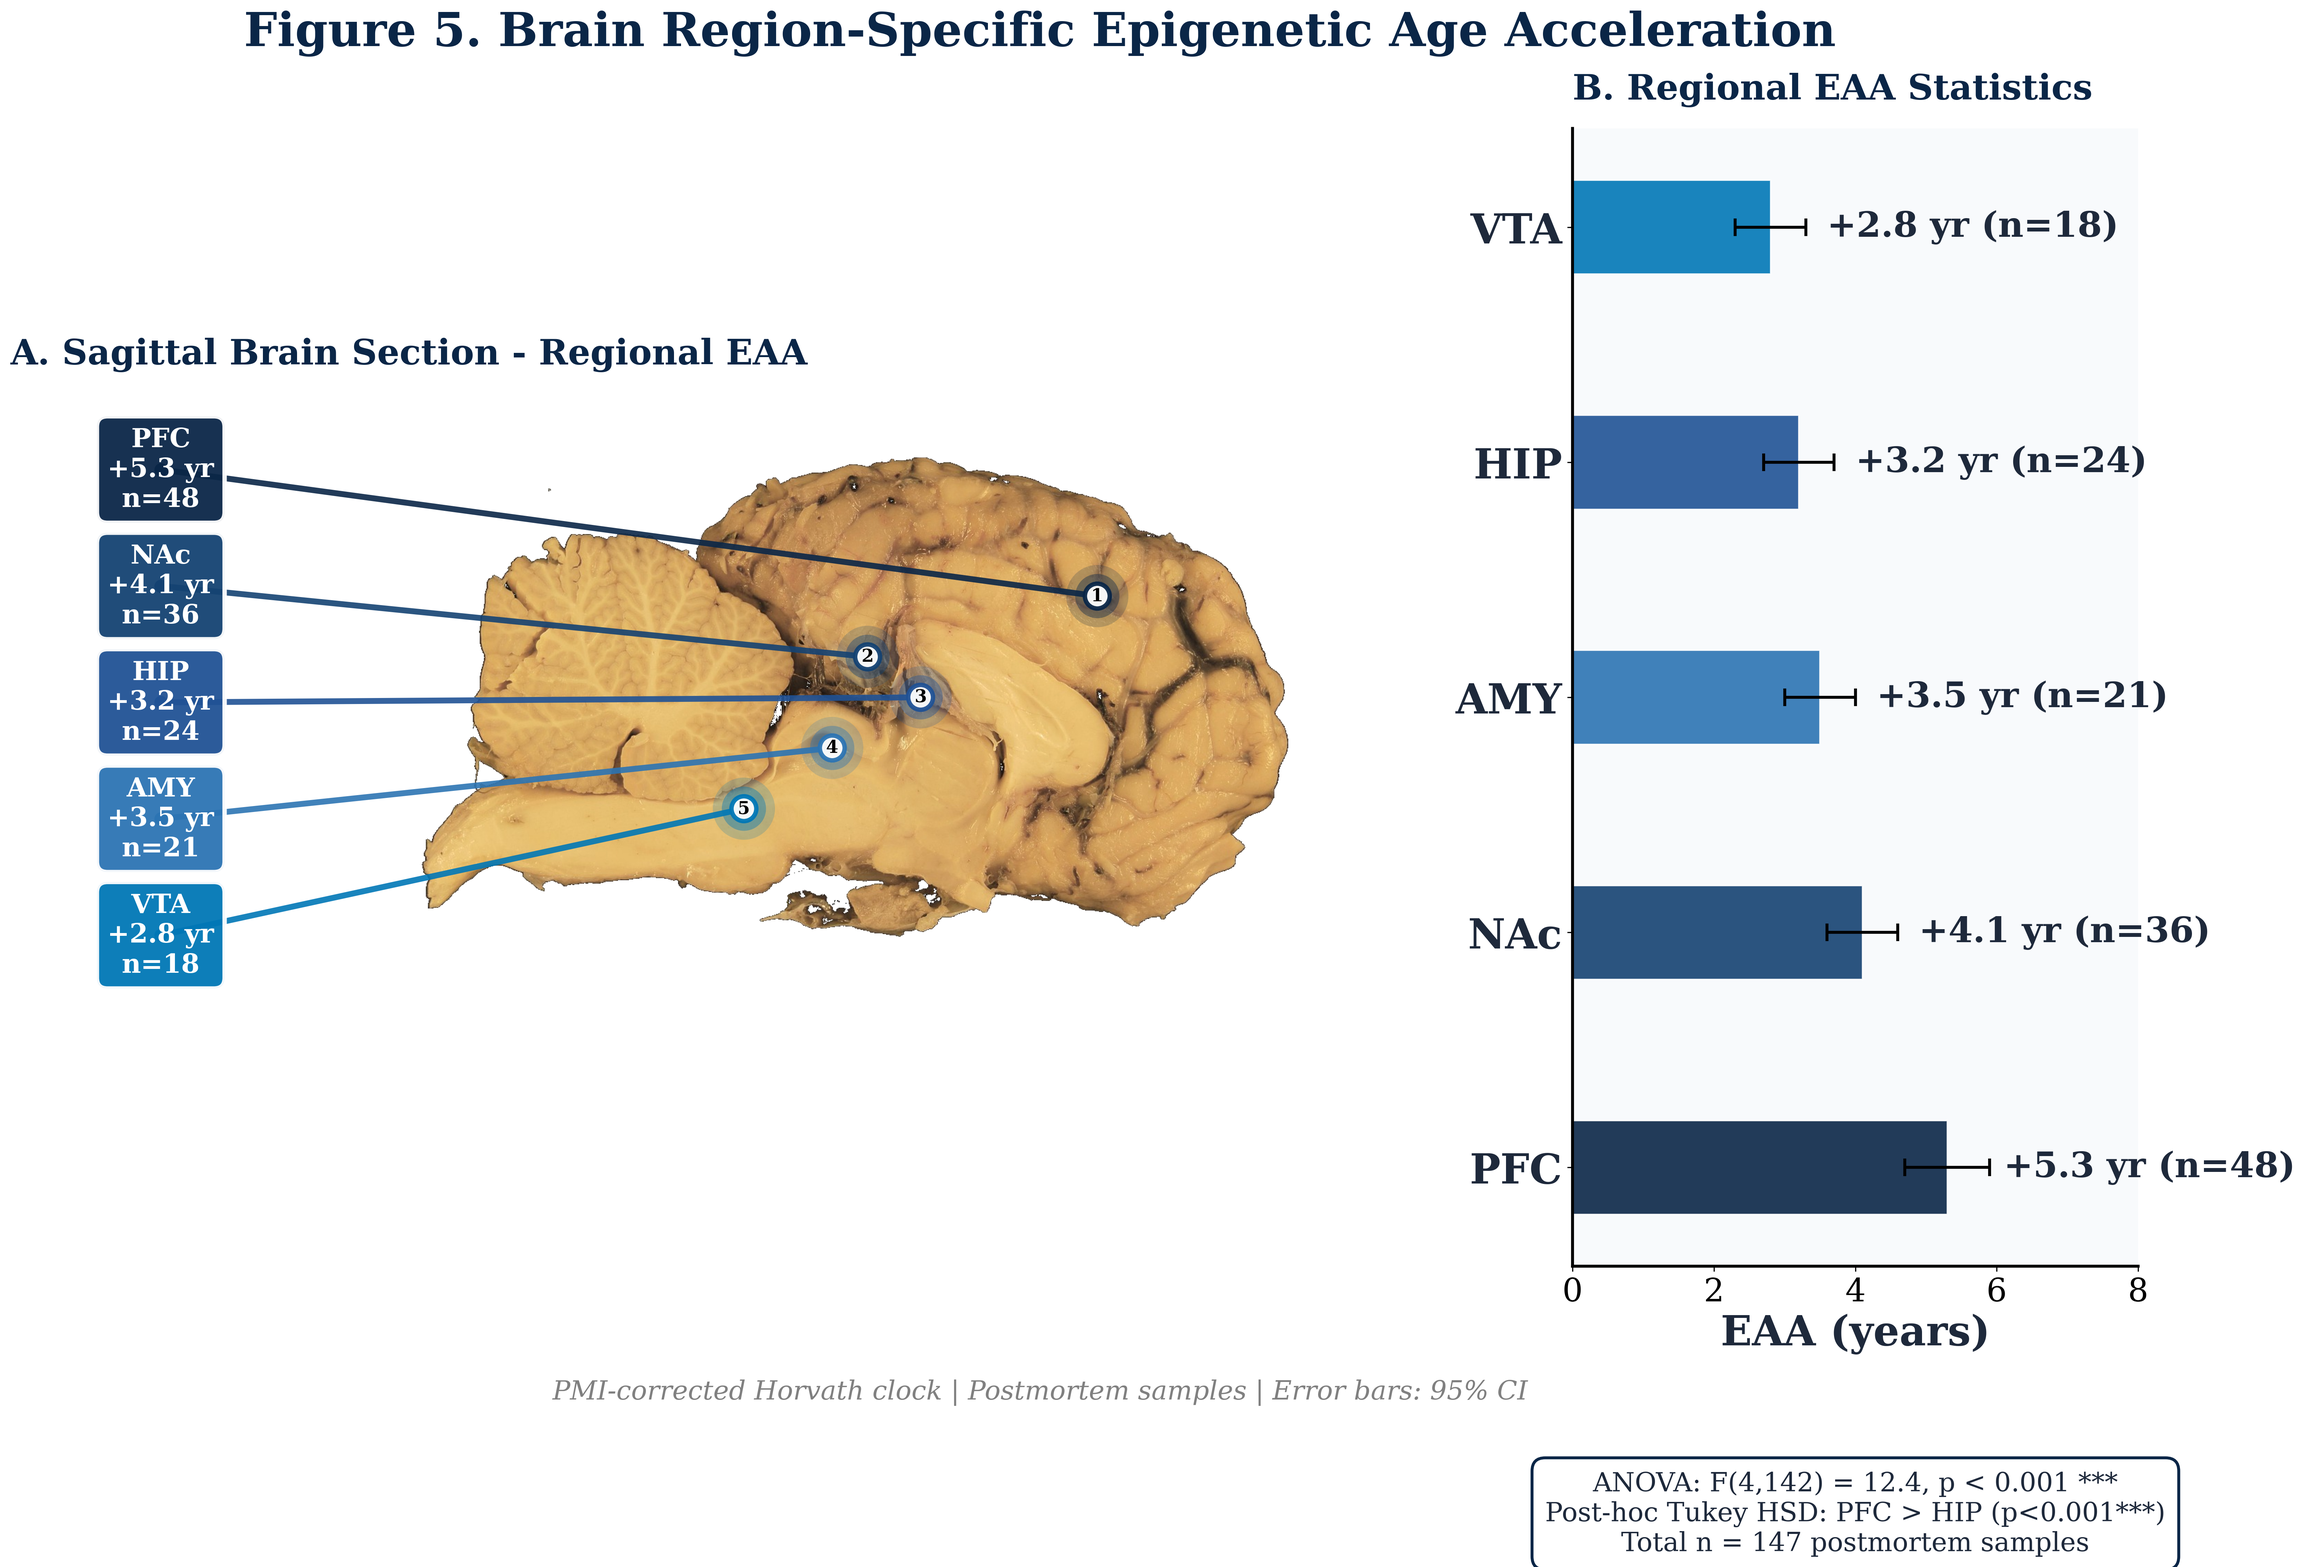
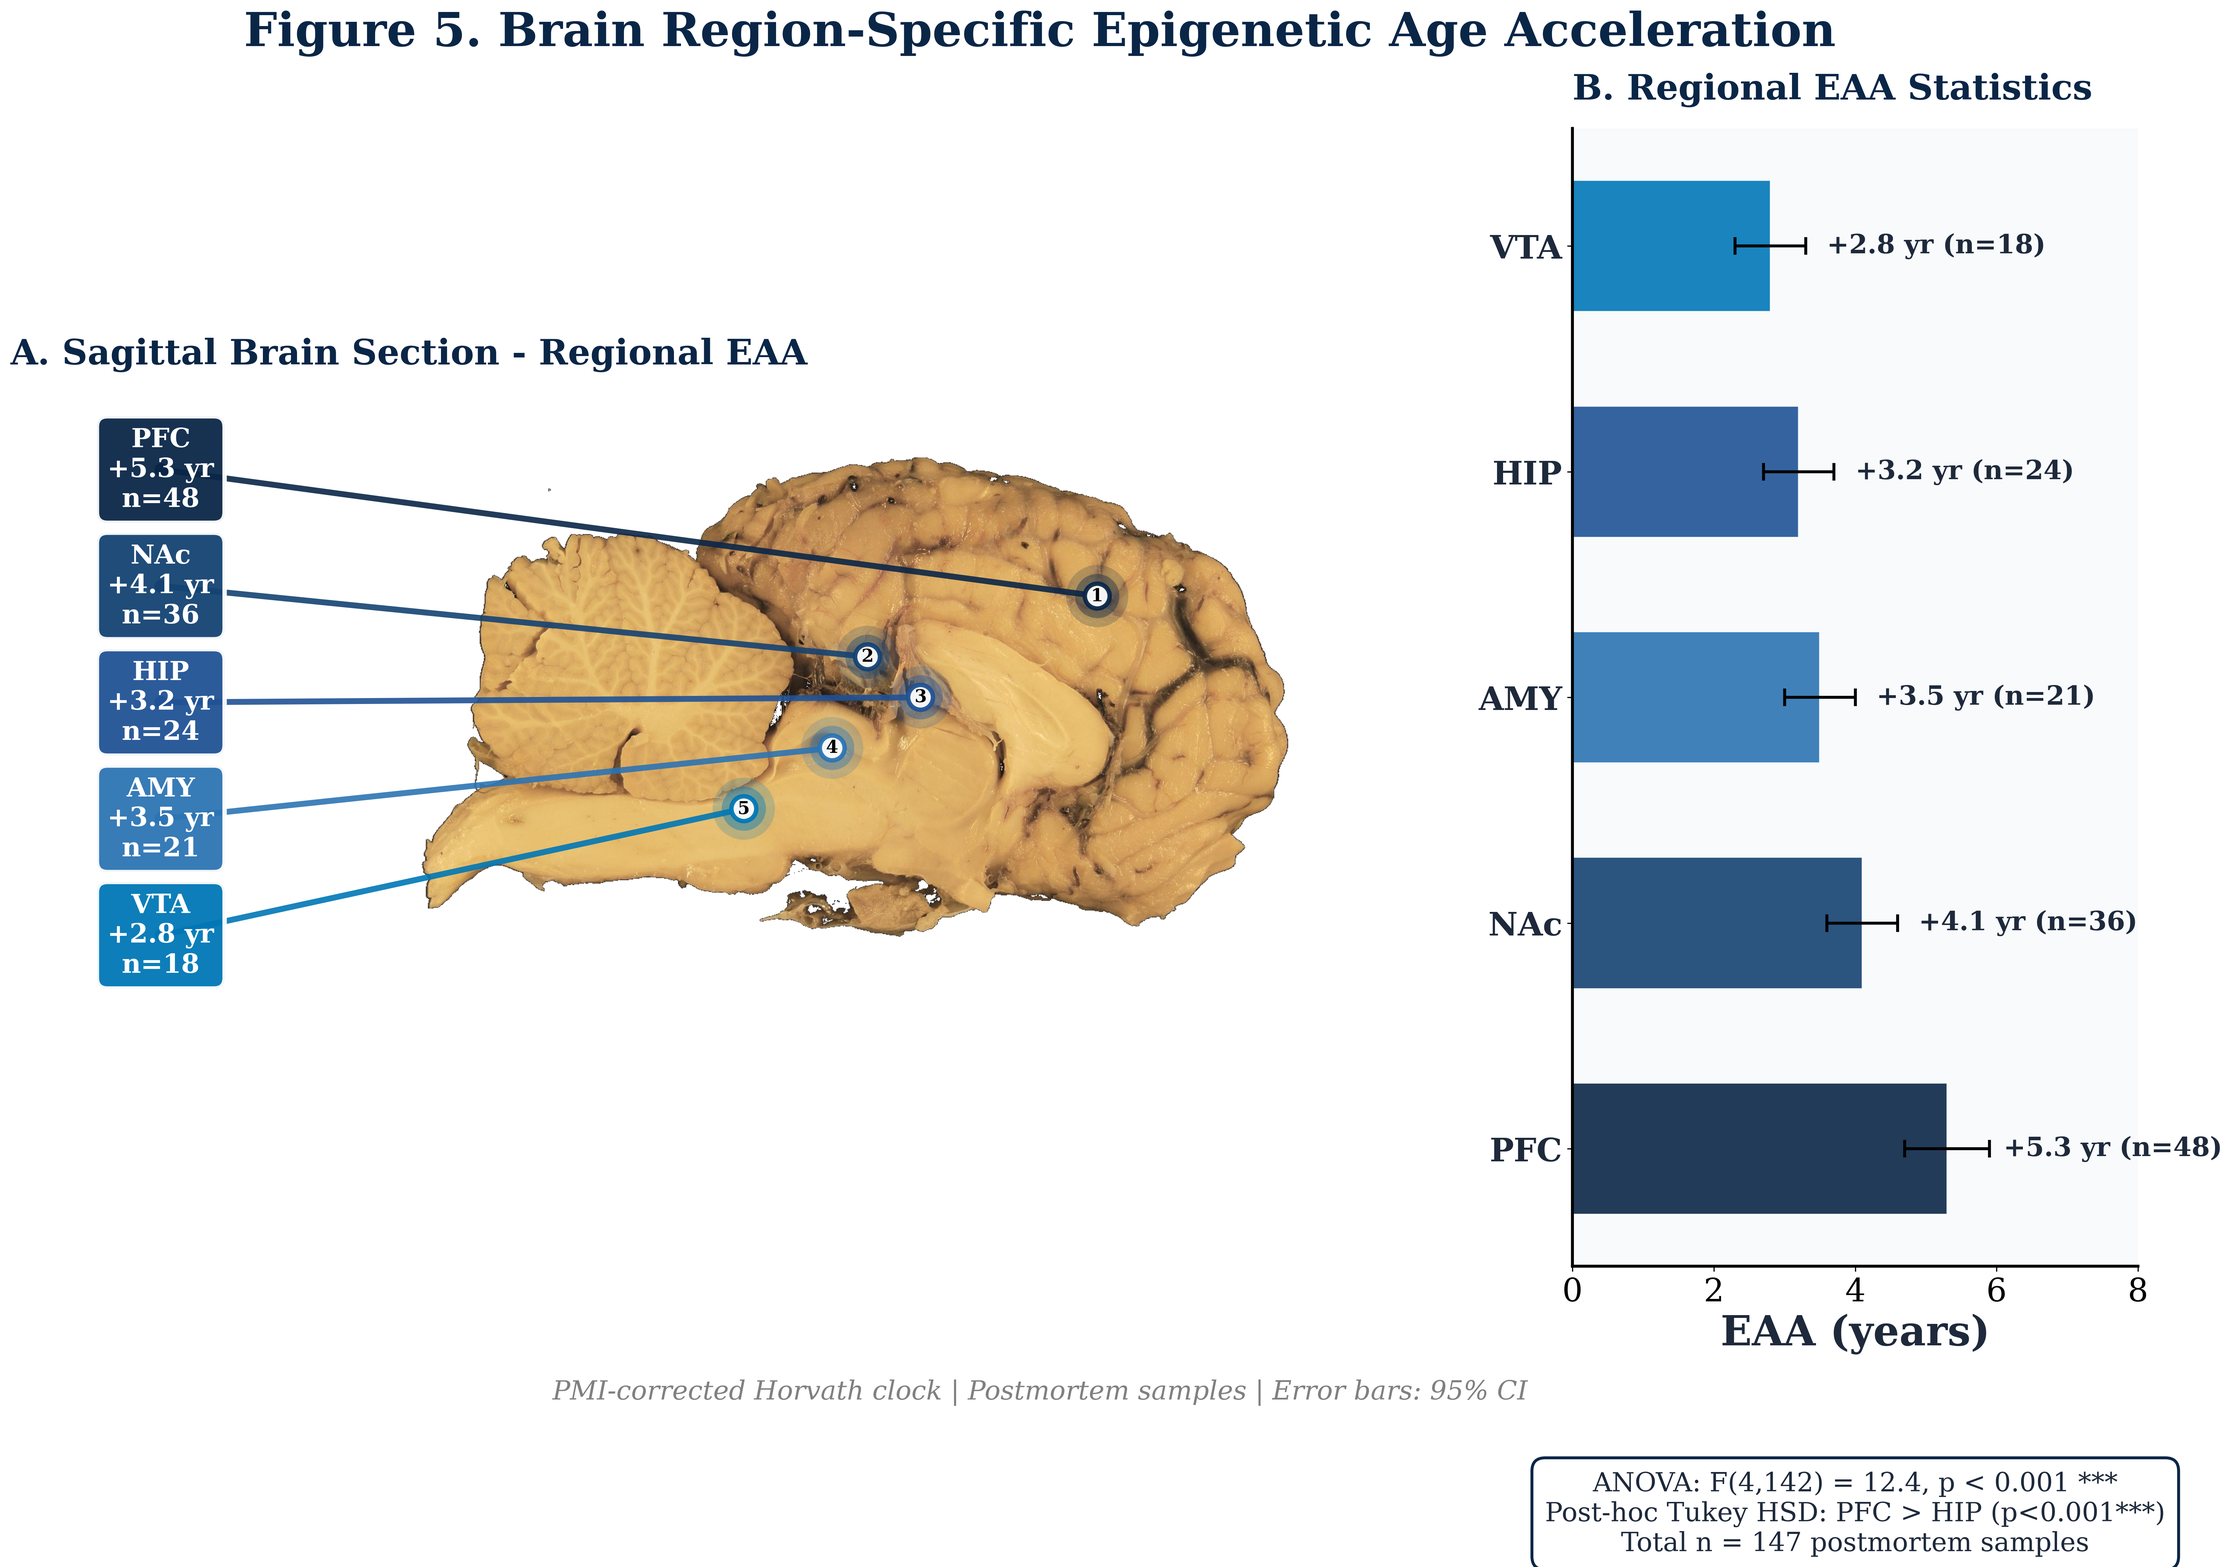
Reduce spacing and thickness of chart bars to improve visual density
Adjust bar chart parameters in `figures/figure_5_brain_blue.py` to decrease bar spacing and thickness, update y-tick labels and annotation positions accordingly, and regenerate output files.

Replit-Commit-Author: Agent
Replit-Commit-Session-Id: 8a253a63-be67-47fc-8f46-380b96cbd7c2
Replit-Commit-Checkpoint-Type: full_checkpoint
Replit-Commit-Event-Id: 2b83a01c-ad72-4148-84aa-90e1bfc0027e
Replit-Commit-Screenshot-Url: https://storage.googleapis.com/screenshot-production-us-central1/03399981-f7bf-4128-8aa6-94abbe415ae8/8a253a63-be67-47fc-8f46-380b96cbd7c2/Umb9z6f

diff --git a/figures/figure_5_brain_blue.py b/figures/figure_5_brain_blue.py
@@ -131,10 +131,10 @@ eaa_sorted = [eaa_vals[i] for i in sorted_idx]
 colors_sorted = [colors[i] for i in sorted_idx]
 n_sorted = [n_vals[i] for i in sorted_idx]
 
-# Create horizontal bars - thinner bars
-y_positions = np.arange(len(regions_sorted))
+# Create horizontal bars - thinner bars, closer together
+y_positions = np.arange(len(regions_sorted)) * 0.6  # Reduce spacing between bars
 bars = ax2.barh(y_positions, eaa_sorted, color=colors_sorted, edgecolor='white', 
-                linewidth=1, height=0.4, alpha=0.9)
+                linewidth=1, height=0.35, alpha=0.9)
 
 # Error bars (95% CI approximation)
 ci_errors = [0.6, 0.5, 0.5, 0.5, 0.5]
@@ -156,12 +156,12 @@ for r in regions_sorted:
         short_names.append('VTA')
 
 ax2.set_yticks(y_positions)
-ax2.set_yticklabels(short_names, fontsize=28, fontweight='bold', color=COLORS['text'])
+ax2.set_yticklabels(short_names, fontsize=22, fontweight='bold', color=COLORS['text'])
 
 # Value annotations
 for i, (eaa, n) in enumerate(zip(eaa_sorted, n_sorted)):
-    ax2.text(eaa + 0.8, i, f'+{eaa} yr (n={n})', va='center', ha='left',
-             fontsize=24, fontweight='bold', color=COLORS['text'])
+    ax2.text(eaa + 0.8, y_positions[i], f'+{eaa} yr (n={n})', va='center', ha='left',
+             fontsize=18, fontweight='bold', color=COLORS['text'])
 
 # X-axis
 ax2.set_xlabel('EAA (years)', fontsize=28, fontweight='bold', color=COLORS['text'])
